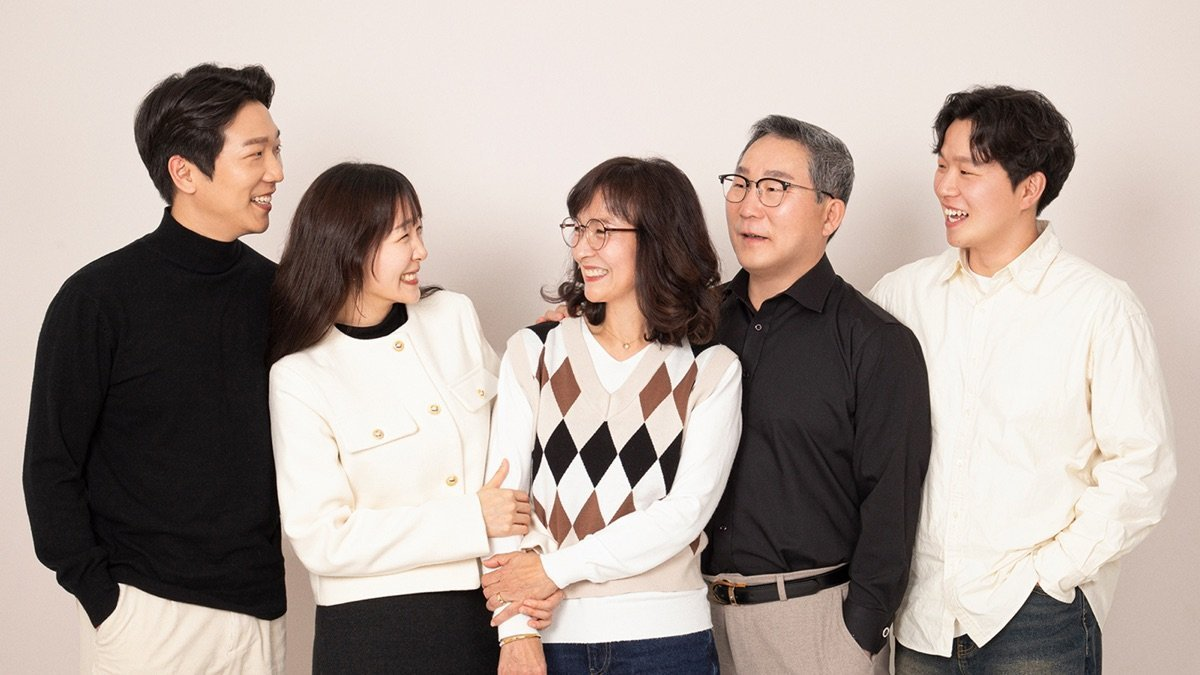
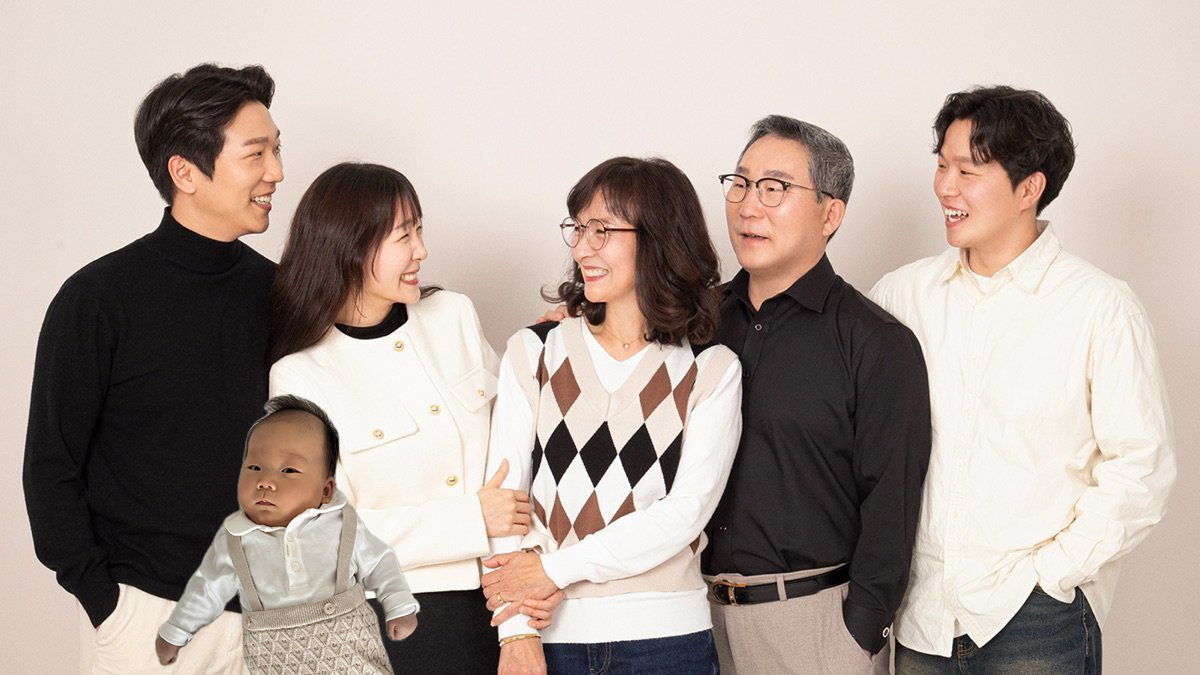
refactor: groom2.jpg를 groom.jpg로 통합해 경로 정리
새 신랑 측 가족사진을 groom.jpg 자리에 덮어쓰고 groom2.jpg는 제거해
파일명에 붙은 버전 접미사를 없앴다. 이전 사진은 히스토리에 남아 있다.

Changed region(s): [[0.1233, 0.56, 0.37, 1.0]]

diff --git a/wedding 2.0/script.js b/wedding 2.0/script.js
@@ -144,7 +144,7 @@ const S5_CARD_DATA = [
       <div class="family-group">
         <div class="family-group-title">신랑 측 가족</div>
         <div class="family-photo-wrap family-photo-wrap--groom">
-          <img src="photos/s5/info/groom2.jpg" alt="신랑 측 가족사진">
+          <img src="photos/s5/info/groom.jpg" alt="신랑 측 가족사진">
         </div>
         <div class="family-photo-caption">(오른쪽부터) 신랑 김병훈, 아버지 김현수, 어머니 정영애, 형수 양지유, 조카 김설, 형 김아롬누리</div>
       </div>
@@ -493,7 +493,7 @@ function initLoadingScreen() {
 initLoadingScreen();
 
 // S5 모달 이미지 미리 디코딩 — 카드 클릭 시 즉시 표시되도록
-['photos/s5/info/venue.jpg', 'photos/s5/info/groom2.jpg', 'photos/s5/info/bride.jpg']
+['photos/s5/info/venue.jpg', 'photos/s5/info/groom.jpg', 'photos/s5/info/bride.jpg']
   .forEach(src => { const i = new Image(); i.src = src; });
 
 document.addEventListener('DOMContentLoaded', () => {
